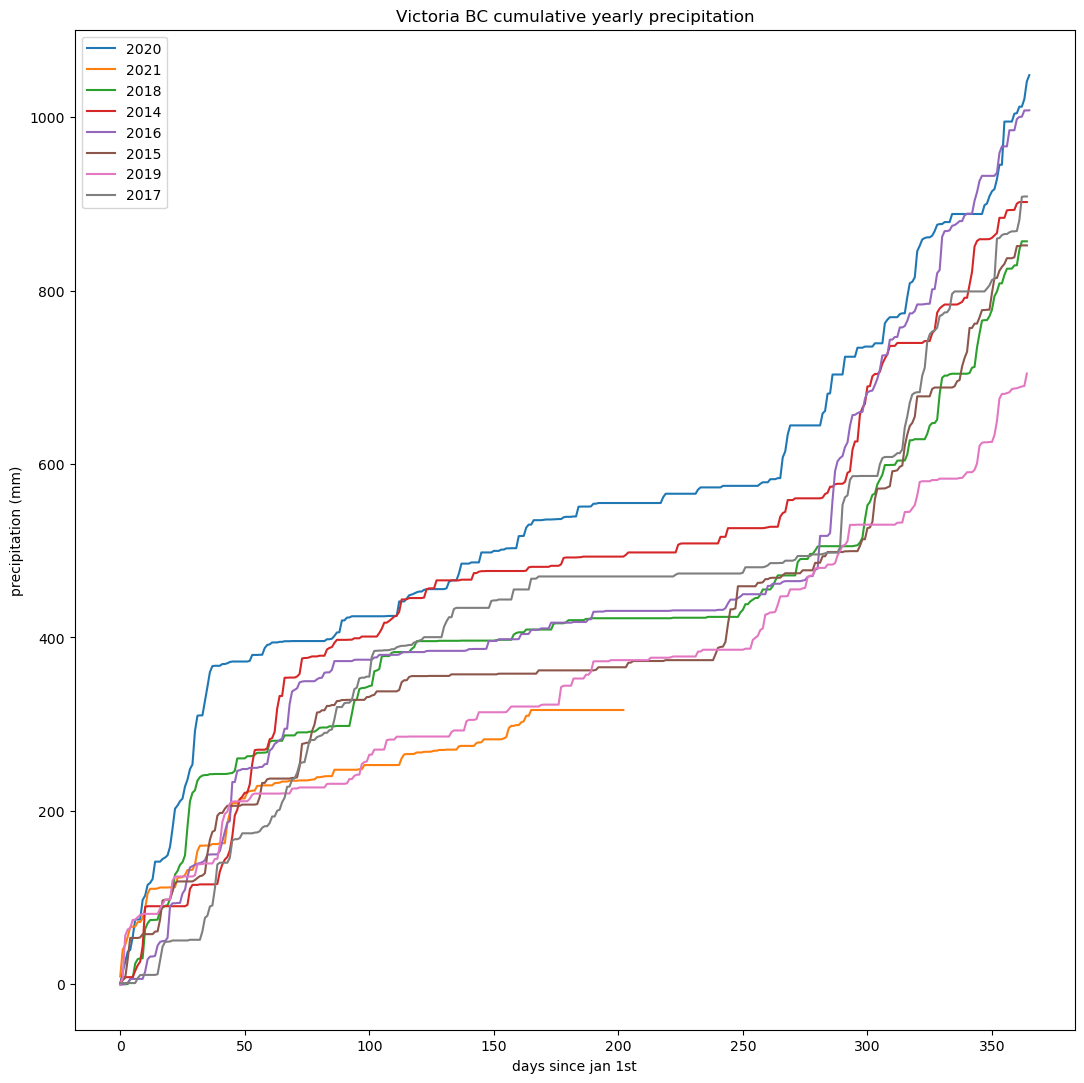
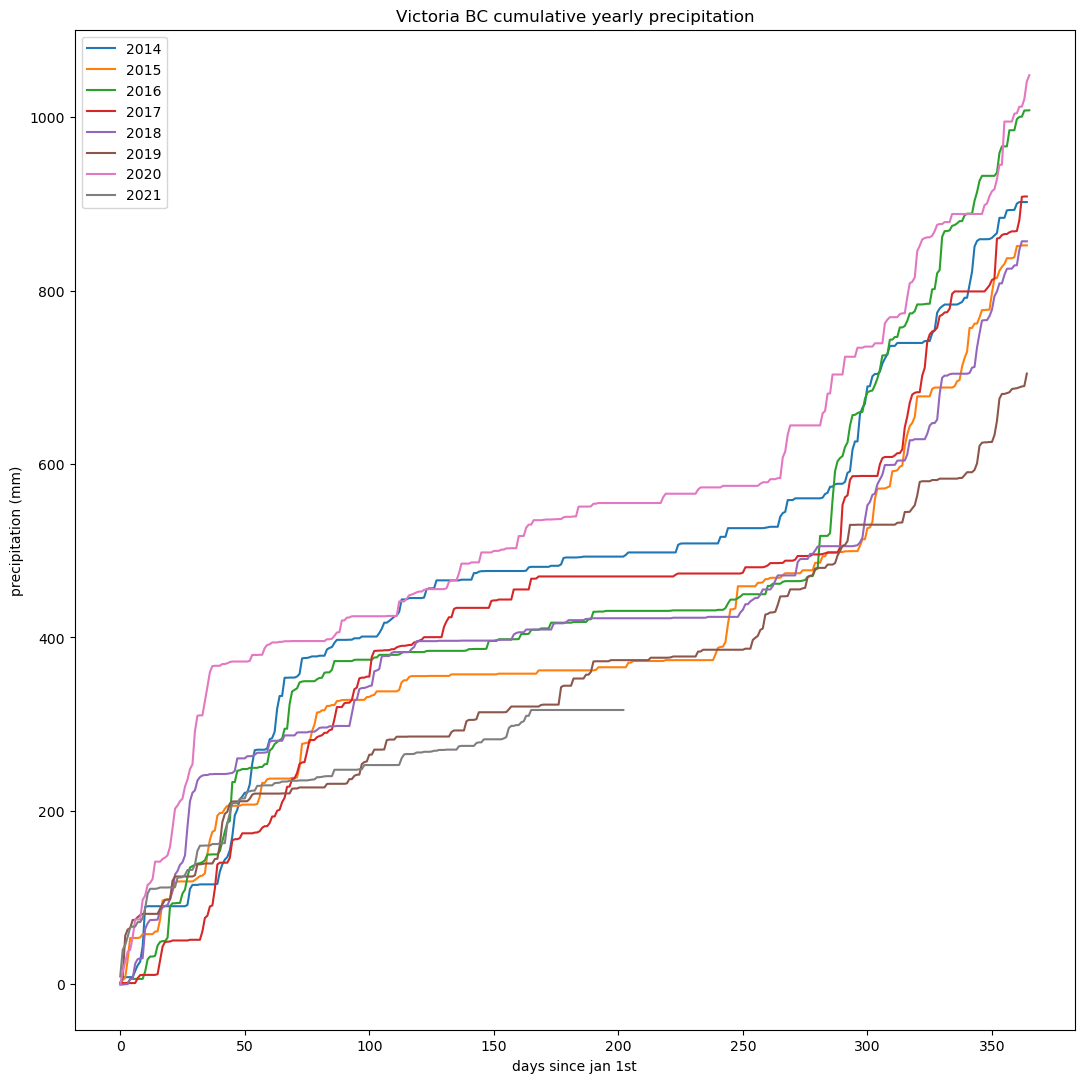
sort dates

diff --git a/victoria-weather/go.py b/victoria-weather/go.py
@@ -14,7 +14,7 @@ def get_float_or_zero(s):
 def get_data():
     p = re.compile('victoria-weather-[0-9]+.csv')
     rows = []
-    for filename in os.listdir(script_dir):
+    for filename in sorted(os.listdir(script_dir)):
         if p.match(filename):
             path = os.path.join(script_dir, filename)
             with open(path, newline='') as csvfile:
